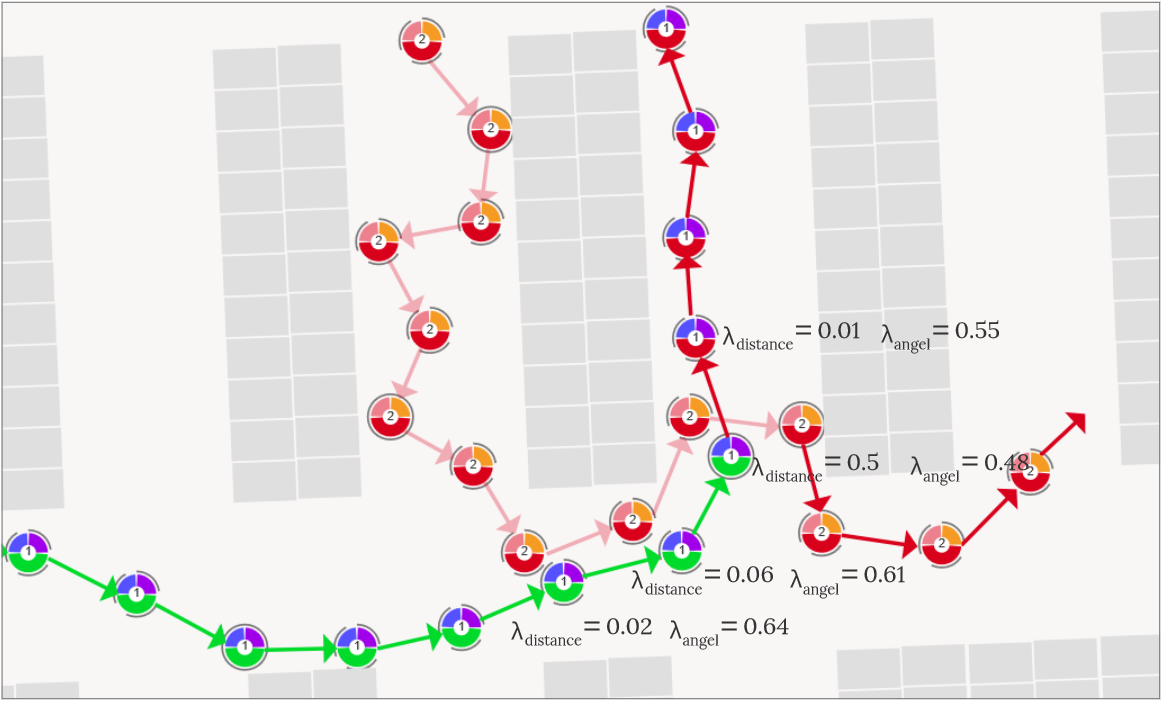
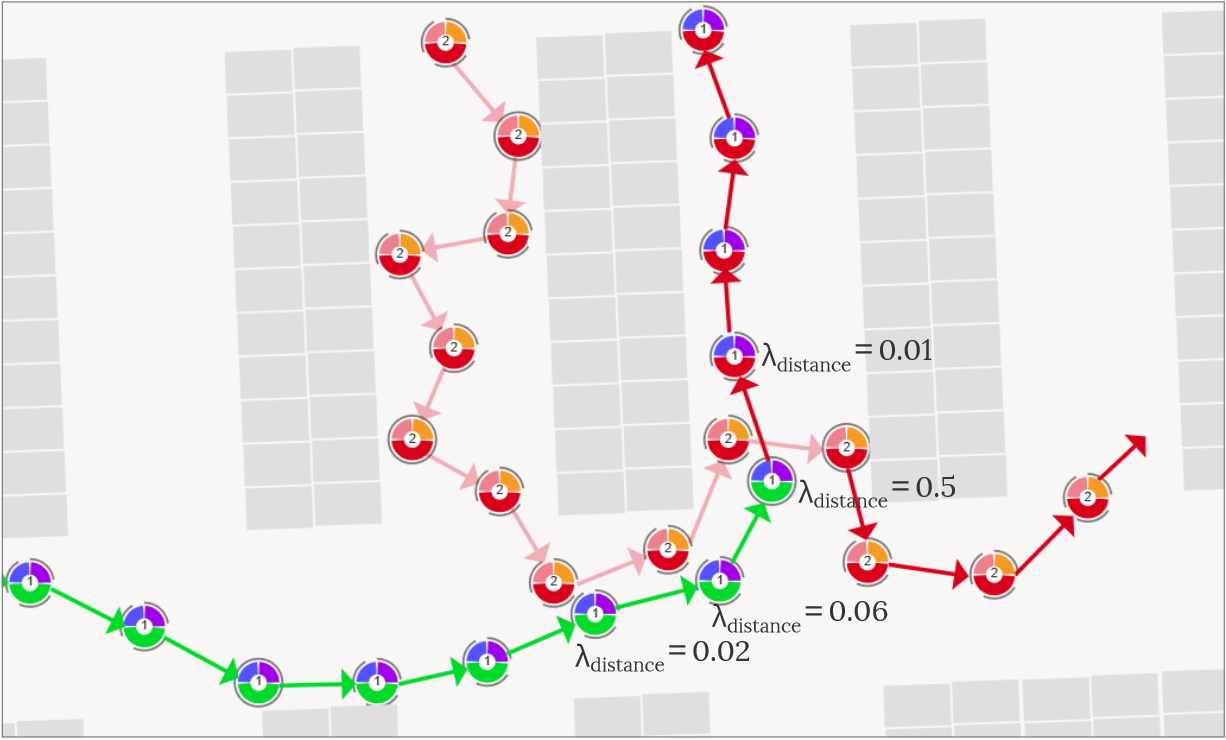
rrt plot function update

diff --git a/model/plotPropagationLink.py b/model/plotPropagationLink.py
@@ -158,7 +158,7 @@ def plot_propagation_tree(roots, node_colors, angle_start=np.pi / 6, angle_range
             edge_color = level_colors[parent.level]  # 边的颜色取决于父节点的层级
             ax.plot([parent_coord[1], child_coord[1]], [parent_coord[0], child_coord[0]], color=edge_color)
     # 设置标题和样式
-    ax.set_title("Propagation Tree in Polar Coordinates", va='bottom')
+    # ax.set_title("Propagation Tree in Polar Coordinates", va='bottom')
     ax.grid(True)
     # 将r值映射为日期并设置刻度
     start_date = datetime.strptime(start_date, '%Y-%m-%d')
@@ -184,7 +184,7 @@ def plot_propagation_tree(roots, node_colors, angle_start=np.pi / 6, angle_range
         Line2D([0], [0], color=colormap(1 - 0.75), lw=2, label=f'Level 3'),
         Line2D([0], [0], color=colormap(1 - 1), lw=2, label=f'Level {max_level}')
     ]
-    ax.legend(handles=legend_elements, loc='upper right')
+    # ax.legend(handles=legend_elements, loc='upper right')
 
 
 def plot_propagation_tree_with_main_arcs(root, angle_start=0, angle_range=2 * np.pi, radius_step=1, min_angle_gap=0.3,
@@ -386,6 +386,7 @@ for i in range(len(data)):
     map[item[0]] = point
 
 tree = []
+treeIdx = set()
 # 构建树关系
 for i in range(len(data)):
     item = data[i]
@@ -396,7 +397,9 @@ for i in range(len(data)):
         prePoint = Point(item[2], 0)
         point.setPre(prePoint)
         prePoint.setNext(point)
-        tree.append(prePoint)
+        if item[2] not in treeIdx:
+            tree.append(prePoint)
+            treeIdx.add(item[2])
         map[item[2]] = prePoint
     else:
         prePoint = map[item[2]]

diff --git a/chuanbomerge.py b/chuanbomerge.py
@@ -4,11 +4,11 @@ import matplotlib.image as mpimg
 plt.rcParams['font.family'] = 'SimHei'
 
 titles = ["（a）病例-主体6传播过程", "（b）病例-主体13传播过程", "（c）病例-主体1传播过程", "（d）病例-主体51传播过程"]
-image_files = ["figures/(a) 病例-主体6传播过程.png",
-               "figures/(b) 病例-主体13传播过程.png",
-               "figures/(c) 病例-主体1传播过程.png",
-               "figures/(d) 病例-主体51传播过程.png"]
-fig, axes = plt.subplots(1, 4, figsize=(32, 6))  # 创建一个2x2的网格，调整画布大小
+image_files = ["figures/(a) 病例-主体6传播过程1.png",
+               "figures/(b) 病例-主体13传播过程1.png",
+               "figures/(c) 病例-主体1传播过程1.png",
+               "figures/(d) 病例-主体51传播过程1.png"]
+fig, axes = plt.subplots(2, 2, figsize=(16, 10))  # 创建一个2x2的网格，调整画布大小
 
 # 展示每张图片，并为每张图片添加标题
 for i, ax in enumerate(axes.flat):

diff --git a/exp2.py b/exp2.py
@@ -42,7 +42,7 @@ plt.title("（a）真实轨迹热力图", y=-0.17, fontsize = 20)
 plt.subplot(1, 2, 2)
 sim_counts = plot_fun.plot_heatmap(plt, 128, 128, 'Reds', simRoutes, range)
 plt.title("（b）生成轨迹热力图", y=-0.17, fontsize = 20)
-plt.subplots_adjust(wspace=0.32)
+plt.subplots_adjust(wspace=0.35)
 plt.savefig('./figures/heatmap.svg', bbox_inches='tight')
 plt.savefig('./figures/heatmap.png', bbox_inches='tight')
 # plt.subplot(1, 3, 3)
